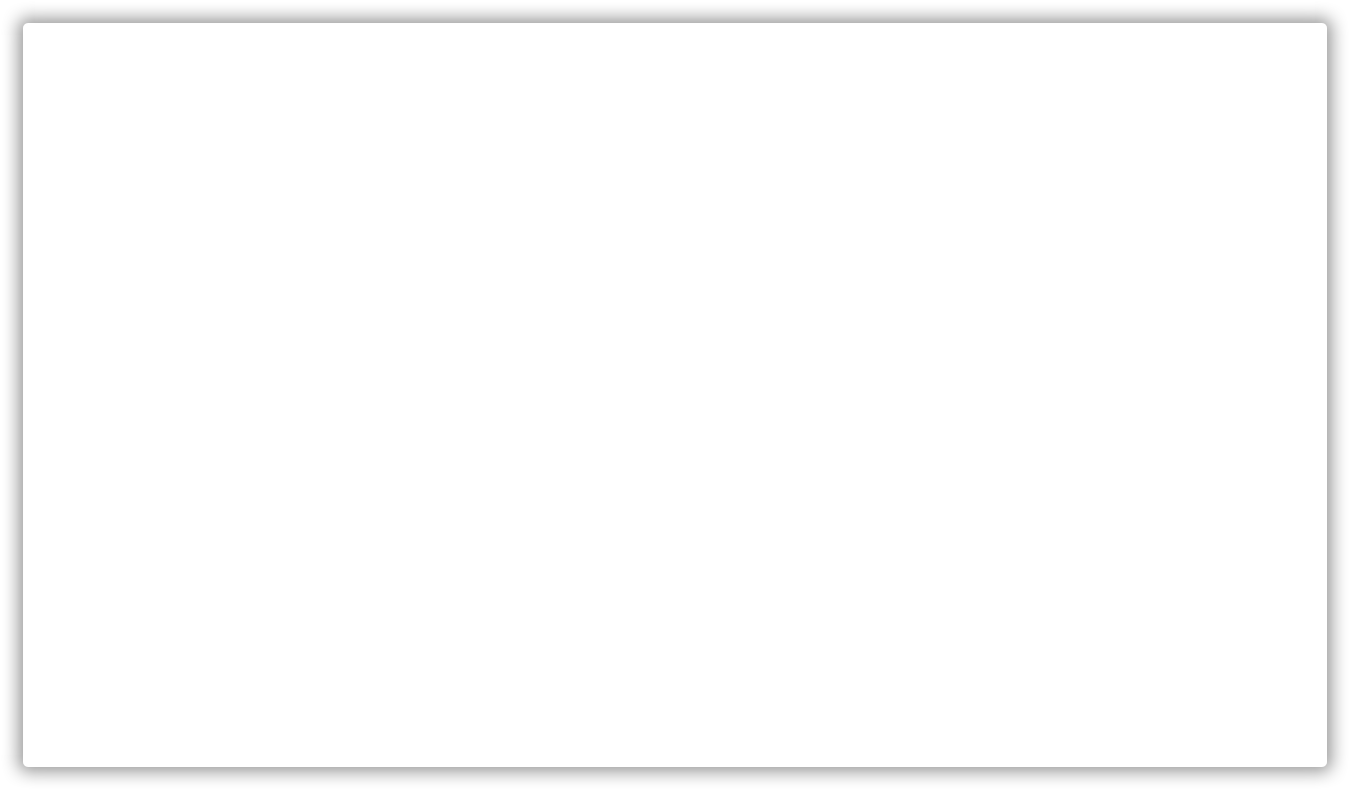
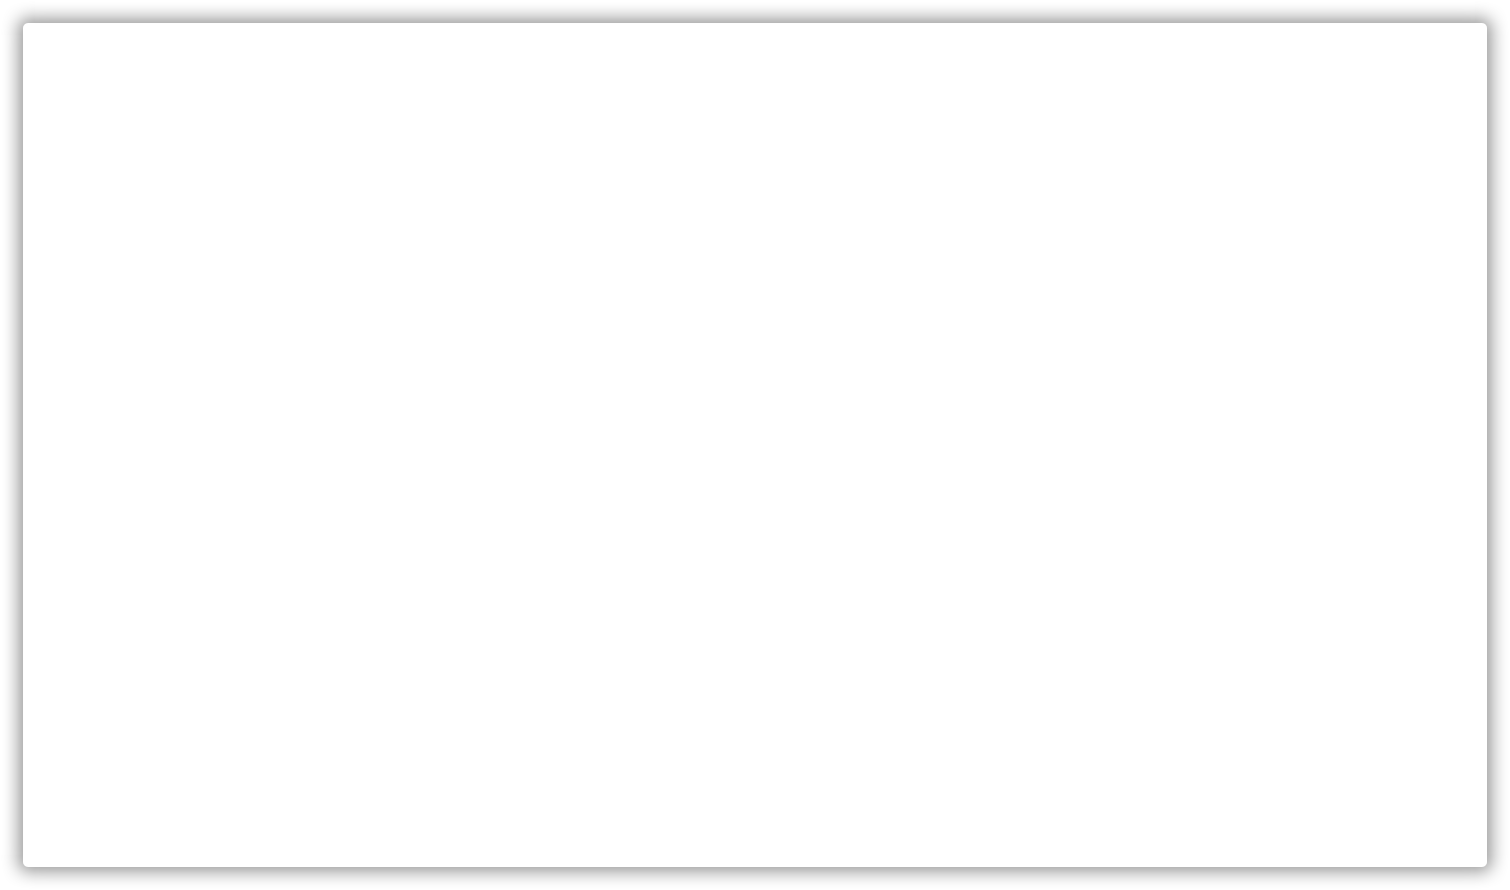
size changes

Changed region(s): [[0.0311, 0.0, 0.9644, 0.0304]]

diff --git a/styles/overlay-minimal.css b/styles/overlay-minimal.css
@@ -5,8 +5,8 @@
 	background-image:url(white.png);
 	
 	/* dimensions after the growing animation finishes  */
-	width:1280px;
-	height:720px;
+	width:1440px;
+	height:820px;
 	
 	/* initially overlay is hidden */
 	display:none;

diff --git a/js/main.js b/js/main.js
@@ -140,8 +140,8 @@ $(function(){
 	});
 
 	videoLightBox(".voverlay", {
-		opacity: 0.7,
-		color: "#000000",
+		opacity: 0,
+		color: "#ffffff",
 		closeOnComplete: true,
 		volume: 100
 	});
